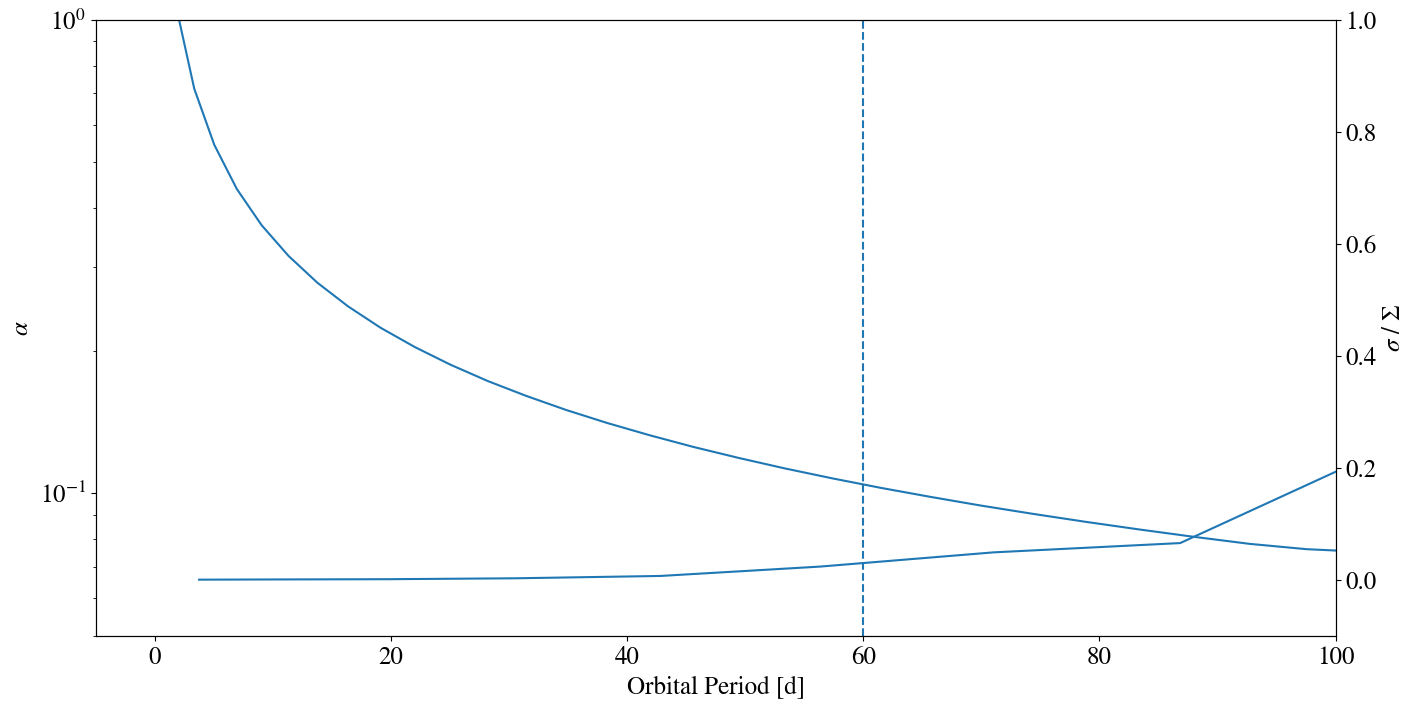
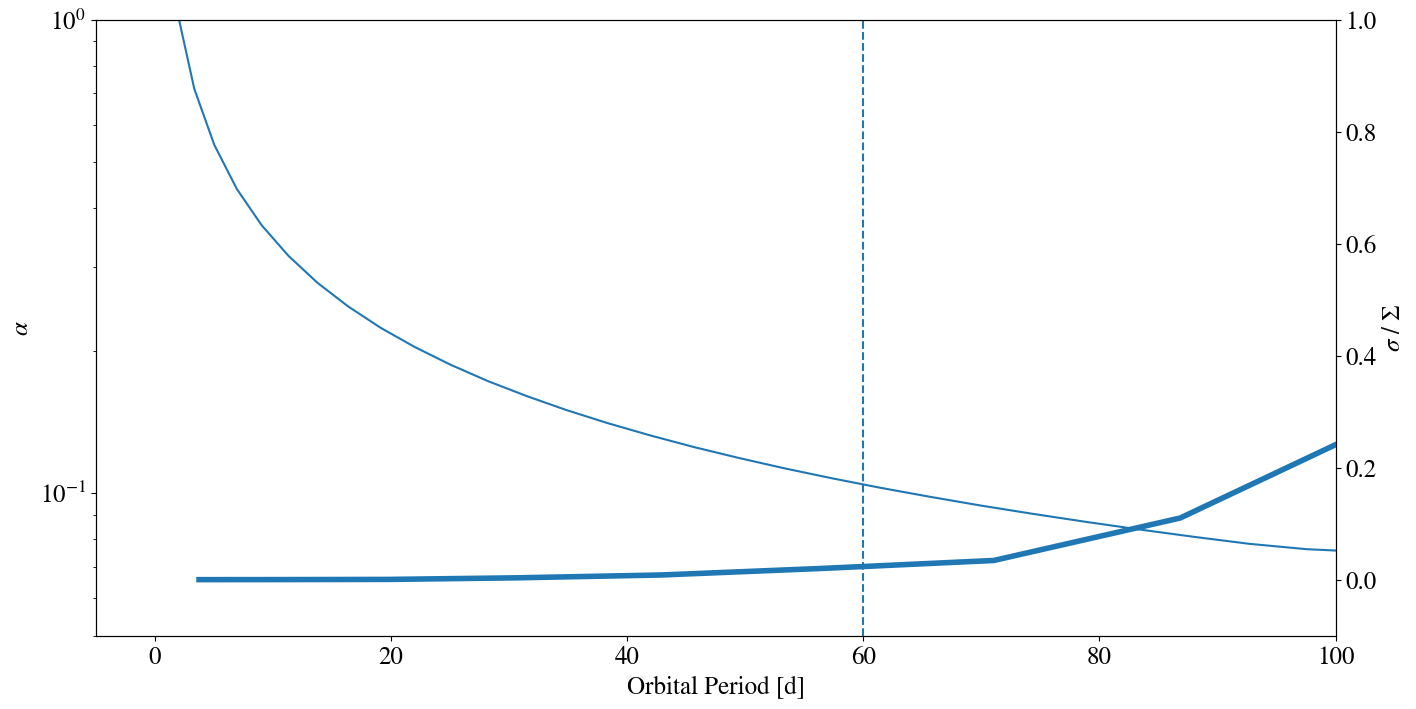
Update figures

Changed region(s): [[0.1243, 0.8068, 0.5282, 0.8378], [0.7458, 0.6206, 0.9633, 0.7757], [0.5282, 0.7757, 0.7458, 0.8068]]

diff --git a/makeFig.py b/makeFig.py
@@ -28,6 +28,7 @@ clobber = True
 fmt = 'png'
 s = 0.005
 lw = 4
+refmass = (1*u.M_earth).to(u.M_sun).value
 
 num_bins = 50
 mCentral = 0.08
@@ -84,7 +85,7 @@ perSh = 2*np.pi*np.sqrt((plVHiSh['a']*u.AU).to(u.cm)**3/(G.cgs*mCentralg)).to(u.
 snap = pb.load('data/fullDiskLoLarge.ic')
 plLoIC = ko.orb_params(snap, isHelio=True, mCentral=mCentral)
 p_lo_ic = pb.analysis.profile.Profile(plLoIC.d, bins=bins)
-snap = pb.load('data/fullDiskLoLarge.2840000')
+snap = pb.load('data/fullDiskLoLarge.4640000')
 plLo = ko.orb_params(snap, isHelio=True, mCentral=mCentral)
 p_lo = pb.analysis.profile.Profile(plLo.d, bins=bins)
 perICLo = 2*np.pi*np.sqrt((plLoIC['a']*u.AU).to(u.cm)**3/(G.cgs*mCentralg)).to(u.d)
@@ -169,7 +170,6 @@ def plot_alpha_beta():
 		pl0 = ko.orb_params(snap0, isHelio=True, mCentral=mcen)
 		snap = pb.load('data/'+prefix+'.end')
 		pl = ko.orb_params(snap, isHelio=True, mCentral=mcen)
-		print()
 		ax.scatter(pl0['a'], pl0['e'], s=pl0['mass']/np.max(pl['mass'])*500)
 		ax.scatter(pl['a'], pl['e'], s=pl['mass']/np.max(pl['mass'])*500)
 		ax.text(0.85, 0.95, title, transform=ax.transAxes, ha='center', va='center')
@@ -297,7 +297,7 @@ def plot_fulldisk_e_m():
 	l = np.logspace(np.log10(30), np.log10(np.max(H)), 10)
 	c = axes.contour(binsX, binsY, np.flipud(np.rot90(H)), colors='black', linewidths=0.2, levels=l)
 
-	axes.scatter(per.value, plVHi['e'], s=plVHi['mass']/np.max(plVHi['mass'])*500)
+	axes.scatter(per.value, plVHi['e'], s=plVHi['mass']/refmass*500)
 	axes.set_ylabel('Eccentricity')
 	axes.set_xlim(p_min, p_max)
 	axes.set_ylim(e_min, e_max)
@@ -311,10 +311,10 @@ def plot_fulldisk_e_m():
 	m_iso_vhi1 = np.sqrt((2*np.pi*a_vals**2*btilde*surf_den)**3/(3*mCentralg))
 
 	axes = ax[1]
-	axes.scatter(per.value, (plVHi['mass']*u.M_sun).to(u.g).value, s=plVHi['mass']/np.max(plVHi['mass'])*500)
+	axes.scatter(per.value, (plVHi['mass']*u.M_sun).to(u.g).value, s=plVHi['mass']/refmass*500)
 	axes.set_yscale('log')
 	axes.plot(prof_perIC, m_iso_vhi, lw=lw)
-	#axes.plot(prof_perIC, m_iso_vhi1)
+	axes.plot(prof_perIC, m_iso_vhi1, lw=lw)
 	axes.set_xlim(p_min, p_max)
 	axes.set_ylim(1e25, 1e28)
 	axes.set_ylabel('Mass [g]')
@@ -387,7 +387,7 @@ def plot_pl_frac_time():
 		p_vhi_m1 = pb.analysis.profile.Profile(plVHi[mask], bins=bins1)
 		p_vhi_m2 = pb.analysis.profile.Profile(plVHiIC, bins=bins1)
 
-		time_arr[idx] = snap.properties['time'].in_units('yr')
+		time_arr[idx] = snap.properties['time'].in_units('yr')*365.25/100 # Outer disk rotation periods
 		prof_arr[:,idx] = (p_vhi_m1['density']*u.M_sun/u.AU**2).to(u.g/u.cm**2)/(p_vhi_m2['density']*u.M_sun/u.AU**2).to(u.g/u.cm**2)
 
 	fig, axes = plt.subplots(figsize=(8,4))
@@ -402,7 +402,7 @@ def plot_pl_frac_time():
 		axes.plot(time_arr, prof_arr[idx], color='black', linestyle=ls, lw=lw1)
 
 	axes.set_ylabel(r'$\sigma$ / $\Sigma$')
-	axes.set_xlabel('Time [yr]')
+	axes.set_xlabel('Time [Outer Rotation Periods]')
 
 	plt.savefig(file_str, format=fmt, bbox_inches='tight')
 
@@ -414,17 +414,17 @@ def plot_surfden_profiles():
 	fig, axes = plt.subplots(figsize=(8,6))
 
 	size = 1000
-	axes.scatter(per.value, plVHi['e'], s=size*plVHi['mass']/np.max(plVHiSt['mass']), label='fdHi', marker='o')
-	axes.scatter(perSt.value, plVHiSt['e'], s=size*plVHiSt['mass']/np.max(plVHiSt['mass']), label='fdHiSteep', marker='^')
-	axes.scatter(perSh.value, plVHiSh['e'], s=size*plVHiSh['mass']/np.max(plVHiSt['mass']), label='fdHiShallow', marker='x')
-	axes.scatter(perLo.value, plLo['e'], s=size*plLo['mass']/np.max(plVHiSt['mass']), label='fdLo', marker='p')
+	axes.scatter(per.value, plVHi['e'], s=size*plVHi['mass']/np.max(plVHi['mass']), label='fdHi')
+	axes.scatter(perSt.value, plVHiSt['e'], s=size*plVHiSt['mass']/np.max(plVHiSt['mass']), label='fdHiSteep')
+	axes.scatter(perSh.value, plVHiSh['e'], s=size*plVHiSh['mass']/np.max(plVHiSh['mass']), label='fdHiShallow')
+	axes.scatter(perLo.value, plLo['e'], s=size*plLo['mass']/np.max(plLo['mass']), label='fdLo')
 
 	axes.set_yscale('log')
 	axes.set_ylim(1e-4, 0.5)
 	axes.set_xlim(-5, 100)
 	axes.set_xlabel('Orbital Period [d]')
 	axes.set_ylabel('Eccentricity')
-	axes.legend(loc=1)
+	axes.legend()
 
 	plt.savefig(file_str, format=fmt, bbox_inches='tight')
 
@@ -437,25 +437,27 @@ def plot_surfden_iso():
 
 	btilde = 2*np.sqrt(3)#5
 
+	s = 50
+
 	surf_den = (p_vhi_ic['density']*u.M_sun/u.AU**2).to(u.g/u.cm**2)
 	surf_den_at = np.interp(plVHi['a'], p_vhi_ic['rbins'], surf_den)
 	m_iso_vhi_at = np.sqrt((2*np.pi*(plVHi['a']*u.AU).to(u.cm).value**2*btilde*surf_den_at)**3/(3*mCentralg))
-	axes.scatter(per.value, (plVHi['mass']*u.M_sun).to(u.g).value/m_iso_vhi_at, label='fdHi', s=20)
+	axes.scatter(per.value, (plVHi['mass']*u.M_sun).to(u.g).value/m_iso_vhi_at, label='fdHi', s=s, edgecolor='black')
 
 	surf_den = (p_vhi_ic_st['density']*u.M_sun/u.AU**2).to(u.g/u.cm**2)
 	surf_den_at = np.interp(plVHiSt['a'], p_vhi_ic_st['rbins'], surf_den)
 	m_iso_vhist_at = np.sqrt((2*np.pi*(plVHiSt['a']*u.AU).to(u.cm).value**2*btilde*surf_den_at)**3/(3*mCentralg))
-	axes.scatter(perSt.value, (plVHiSt['mass']*u.M_sun).to(u.g).value/m_iso_vhist_at, label='fdHiSteep', s=20)
+	axes.scatter(perSt.value, (plVHiSt['mass']*u.M_sun).to(u.g).value/m_iso_vhist_at, label='fdHiSteep', s=s, edgecolor='black')
 
 	surf_den = (p_vhi_ic_sh['density']*u.M_sun/u.AU**2).to(u.g/u.cm**2)
 	surf_den_at = np.interp(plVHiSh['a'], p_vhi_ic_sh['rbins'], surf_den)
 	m_iso_vhish_at = np.sqrt((2*np.pi*(plVHiSh['a']*u.AU).to(u.cm).value**2*btilde*surf_den_at)**3/(3*mCentralg))
-	axes.scatter(perSh.value, (plVHiSh['mass']*u.M_sun).to(u.g).value/m_iso_vhish_at, label='fdHiShallow', s=20)
+	axes.scatter(perSh.value, (plVHiSh['mass']*u.M_sun).to(u.g).value/m_iso_vhish_at, label='fdHiShallow', s=s, edgecolor='black')
 
 	surf_den = (p_lo_ic['density']*u.M_sun/u.AU**2).to(u.g/u.cm**2)
 	surf_den_at = np.interp(plLo['a'], p_lo_ic['rbins'], surf_den)
 	m_iso_lo_at = np.sqrt((2*np.pi*(plLo['a']*u.AU).to(u.cm).value**2*btilde*surf_den_at)**3/(3*mCentralg))
-	axes.scatter(perLo.value, (plLo['mass']*u.M_sun).to(u.g).value/m_iso_lo_at, label='fdLo', s=20)
+	axes.scatter(perLo.value, (plLo['mass']*u.M_sun).to(u.g).value/m_iso_lo_at, label='fdLo', s=s, edgecolor='black')
 
 	axes.axhline(1, ls='--', color='gray')
 	axes.set_yscale('log')
@@ -540,7 +542,11 @@ def plot_smooth_acc():
 	# For each embryo, fraction of mass accreted in planetesimals
 	num_oli = 100
 
-	df = pd.read_csv('data/fullDiskVHi.coll')
+	nam = ['time', 'collType', 'iorder1', 'iorder2', 'm1', 'm2', 'r1', 'r2', 'x1x', 'x1y', 'x1z', 'x2x', 'x2y', 'x2z',  'v1x', 'v1y', 'v1z', \
+	'v2x', 'v2y', 'v2z', 'w1x', 'w1y', 'w1z', 'w2x', 'w2y', 'w2z']
+	df1 = pd.read_csv('data/fullDiskVHi.coll', names=nam, sep=' ', index_col=False)
+	df2 = pd.read_csv('data/fullDiskVHi1.coll', names=nam, sep=' ', index_col=False)
+	df = pd.concat([df1, df2])
 	df1_s, df1_d = np.loadtxt('data/fullDiskVHi_delete1', dtype='int', unpack=True)
 	massive_ind = np.argsort(np.array(plVHi['mass']))[::-1][:num_oli]
 	a_iord_orig = prev_iorder(plVHi['iord'][massive_ind], len(plVHiIC), df1_d)
@@ -591,7 +597,7 @@ def plot_acc_zones():
 	histbins = np.linspace(0, 100, 200)
 
 	root_idx = np.loadtxt('data/roots_vhi.txt')
-	df1_s, df1_d = np.loadtxt('data/fullDiskVHi_delete1', dtype='int', unpack=True)
+	df1_d, df1_s = np.loadtxt('data/fullDiskVHi_delete1', dtype='int', unpack=True)
 	massive_ind = np.argsort(np.array(plVHi['mass']))[::-1]
 	massive_iord_orig = prev_iorder(plVHi['iord'][massive_ind], len(plVHiIC), df1_d)
 
